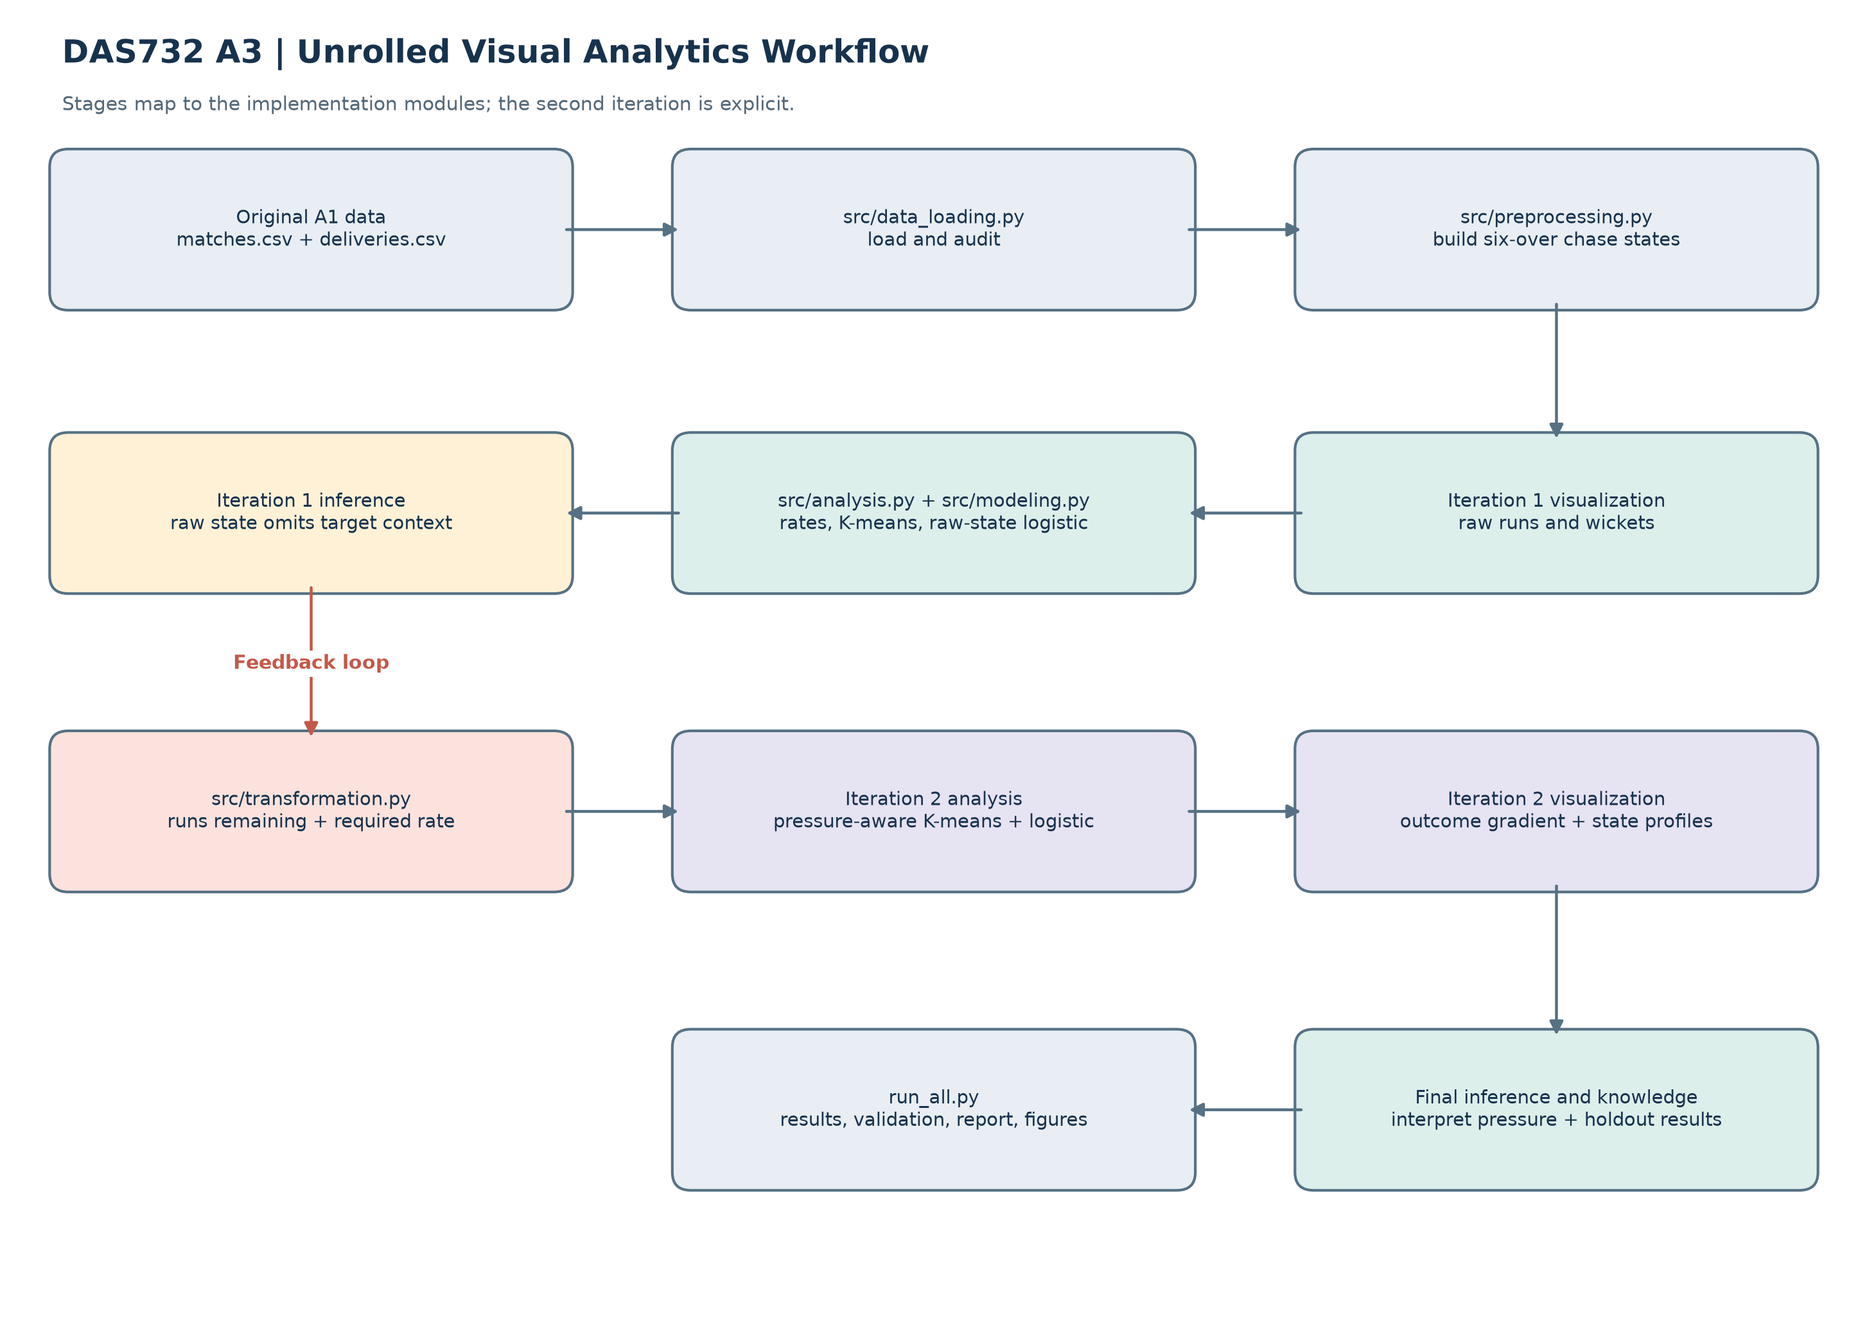
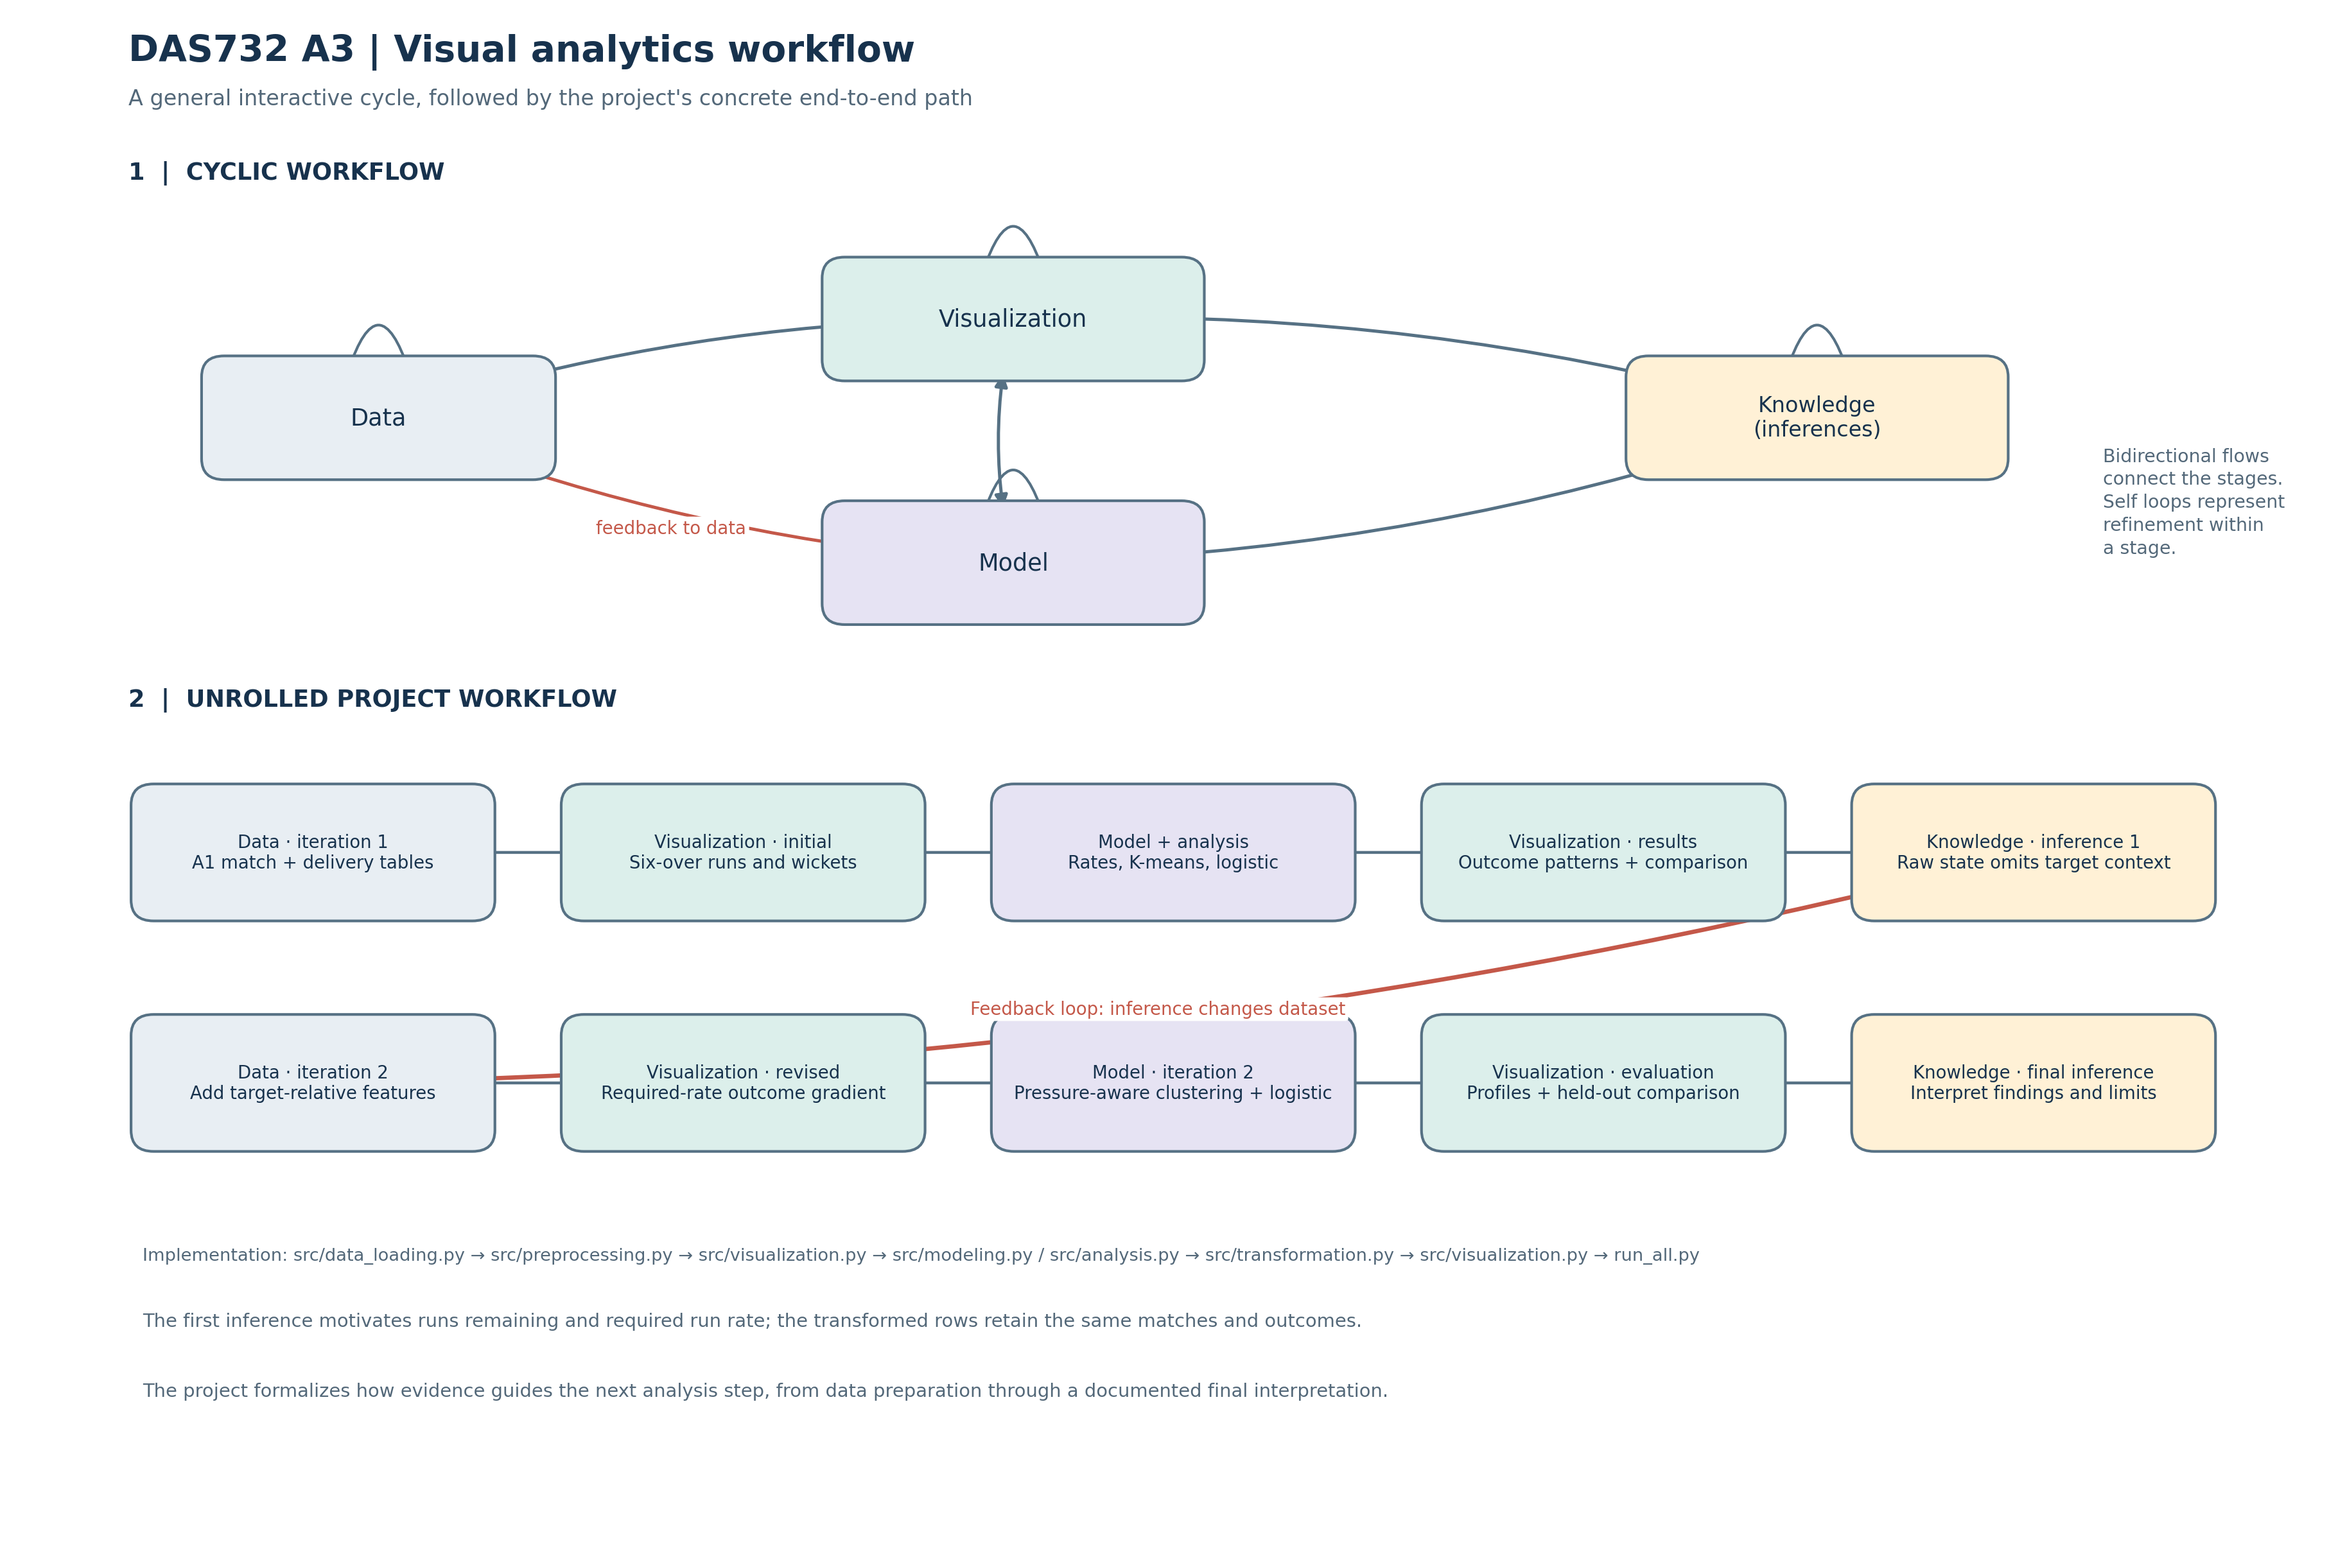
Align generated report with workflow diagram

diff --git a/src/reporting.py b/src/reporting.py
@@ -88,12 +88,12 @@ The primary data are the A1 IPL match and delivery tables: 1,243 matches and 295
 The unit of analysis is one match's second-innings state after 36 legal balls in overs 0--5. Target equals first-innings total runs plus one. Chase success is whether the second-innings batting team matches the official winner. The pipeline retains all source delivery rows and excludes super-over events, ties, no-results, D/L matches, matches scheduled for fewer than seven overs, and innings with fewer than 36 legal balls in the first six overs. The final table contains {audit['eligible_states']:,} observations ({audit['successful_chases']:,} successful chases and {audit['unsuccessful_chases']:,} unsuccessful chases). The filtering does not remove outliers for visual convenience.
 
 \section{{Visual analytics workflow}}
-The workflow follows Keim et al.'s visual analytics process: data preparation, visualization and analysis interact to support interpretation. Figure~\ref{{fig:workflow}} unrolls the two iterations. The first iteration displays six-over runs and wickets, analyzes their outcome patterns, and identifies omitted target context. That quantified inference triggers the feedback transformation. The second iteration visualizes required rate and target-aware clusters, with a same-test-set model comparison.
+The workflow follows Keim et al.'s visual analytics process: data, visualization, modeling, and knowledge formation interact through bidirectional flows, while self-loops represent refinement within a stage. Here, knowledge means an inference supported by the analysis. Figure~\ref{{fig:workflow}} shows both this cyclic view and its unrolled, end-to-end execution. The first pass moves from data through visualization and modeling to result visualization. Its inference is that raw six-over runs and wickets omit target context. This knowledge feeds back by adding runs remaining and required run rate to the dataset representation. The next pass analyzes and visualizes the transformed state, compares models on the same holdout, and records a final inference. The matches and outcomes stay fixed across the transformation.
 
 \begin{{figure}}[H]
 \centering
 \includegraphics[width=0.94\linewidth]{{workflow_diagram.png}}
-\caption{{Unrolled visual analytics workflow. Every implementation stage maps to a source module or the pipeline orchestrator. The labeled feedback edge connects the iteration-one inference to the pressure-feature transformation.}}
+\caption{{Cyclic and unrolled visual analytics workflow. The upper view shows bidirectional interaction and within-stage refinement; the lower view expands the project's sequence. The labeled feedback edge connects an inference to a dataset transformation and the next iteration.}}
 \label{{fig:workflow}}
 \end{{figure}}
 
